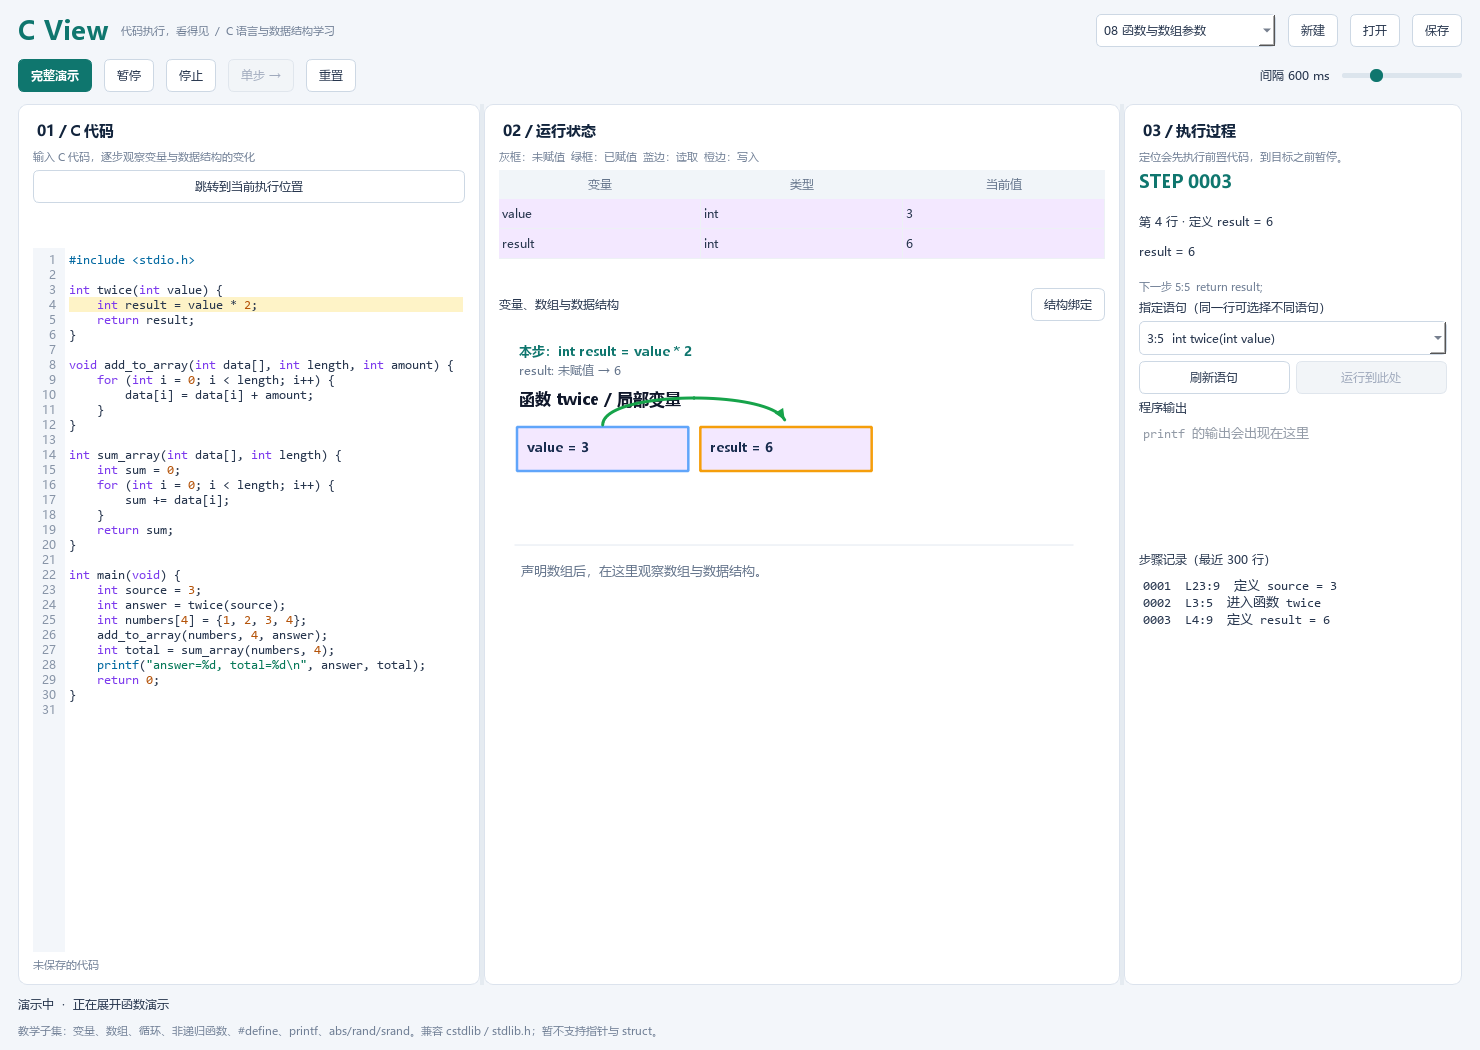
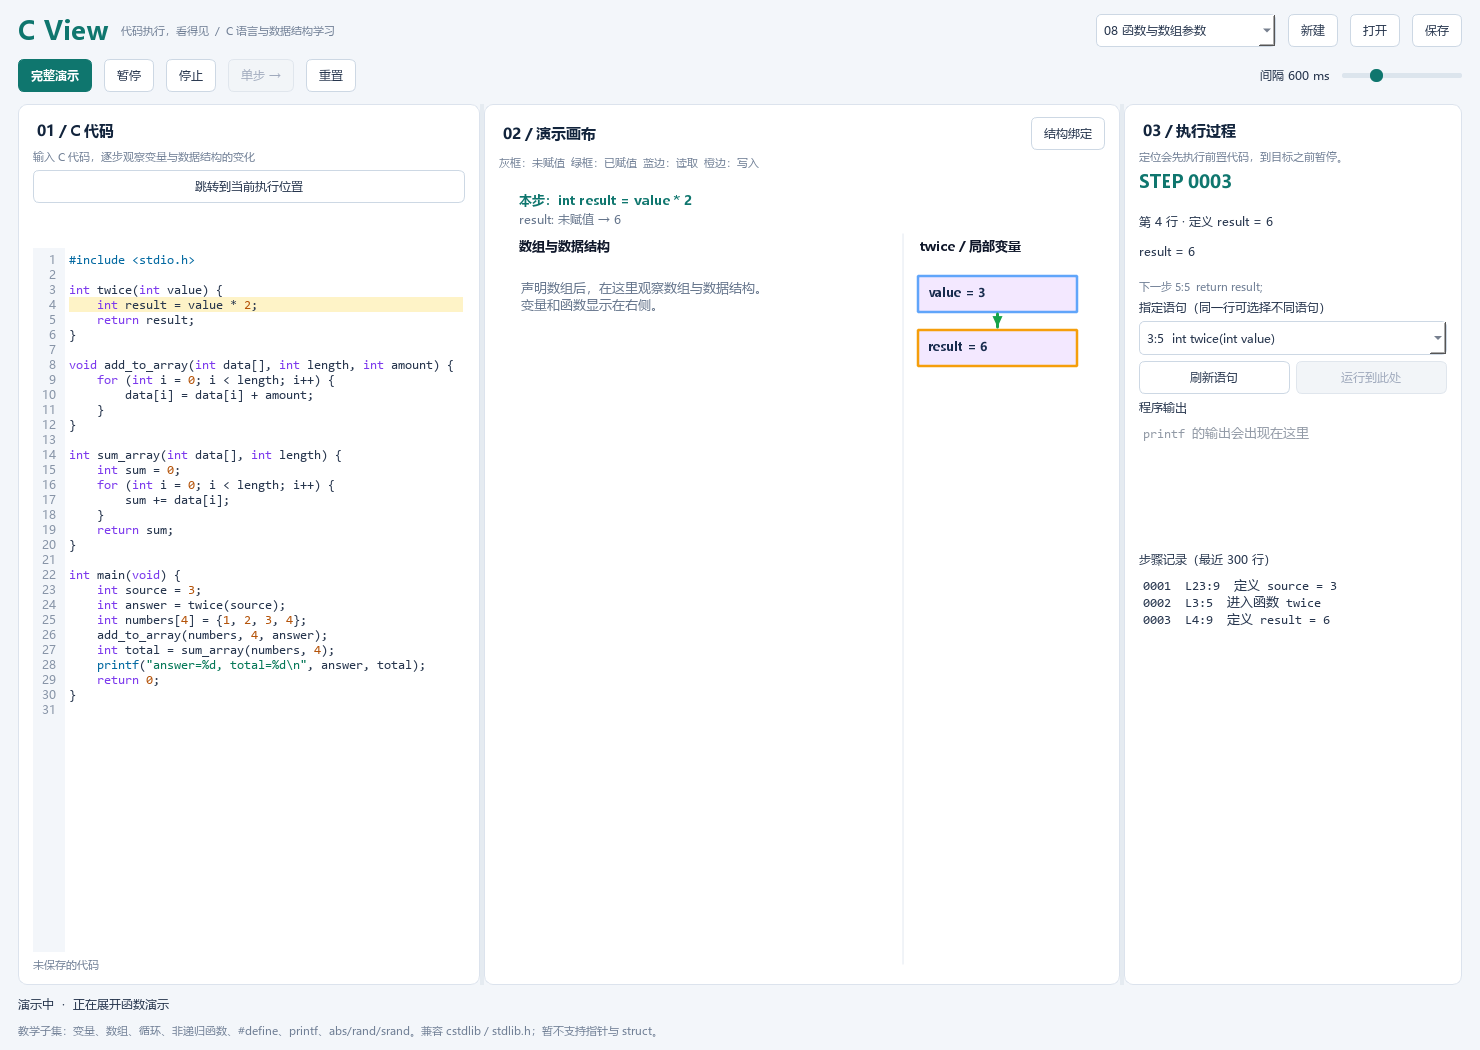
Expand visual canvas and move variables to right sidebar

diff --git a/cvisualizer/views.py b/cvisualizer/views.py
@@ -64,8 +64,8 @@ class MemoryView(QGraphicsView):
                 self.motion.origins[key] += shift
         self.motion.finish()
 
-    def _begin_section(self, name, top, bottom, width):
-        clip = QGraphicsRectItem(0, top, width, max(1, bottom-top))
+    def _begin_section(self, name, top, bottom, width, left=0):
+        clip = QGraphicsRectItem(left, top, width, max(1, bottom-top))
         clip.setPen(QPen(Qt.PenStyle.NoPen))
         clip.setFlag(QGraphicsItem.GraphicsItemFlag.ItemClipsChildrenToShape)
         self.scene().addItem(clip)
@@ -117,7 +117,7 @@ class MemoryView(QGraphicsView):
         item.setPos(x, y)
         return item
 
-    def box(self, name, value, x, y, width, read=False, written=False, purple=False):
+    def box(self, name, value, x, y, width, read=False, written=False, purple=False, compact=False):
         fill = '#e5e7eb' if value is None else '#dcfce7'
         border = '#a1a8b3' if value is None else '#86bda4'
         if purple or self._function_context:
@@ -126,12 +126,12 @@ class MemoryView(QGraphicsView):
             border = '#60a5fa'
         if written:
             border = '#f59e0b'
-        rect = self.scene().addRect(x, y, width, 44, QPen(QColor(border), 2.5 if read or written else 1.3), QBrush(QColor(fill)))
+        rect = self.scene().addRect(x, y, width, 36 if compact else 44, QPen(QColor(border), 2.5 if read or written else 1.3), QBrush(QColor(fill)))
         rect.setParentItem(self._content_parent)
         rect.setData(0, name)
         text = name if value is None else f'{name} = {display(value)}'
         rect.setToolTip(text + ('（未初始化）' if value is None else ''))
-        item = self.label(text, x+6, y+8, 10, '#172b4d', True)
+        item = self.label(text, x+6, y+5 if compact else y+8, 9 if compact else 10, '#172b4d', True)
         item.setToolTip(rect.toolTip())
         item.setPlainText(QFontMetricsF(item.font()).elidedText(text, Qt.TextElideMode.ElideRight, width-14))
         rect.value_label = item
@@ -233,24 +233,19 @@ class MemoryView(QGraphicsView):
         self.scene().clear()
         self._sections = {}
         self._content_parent = None
-        width = max(300, self.viewport().width()-28)
-        height = max(1, self.viewport().height())
+        full_width = max(320, self.viewport().width()-20)
+        height = max(1, self.viewport().height()-8)
+        rail_width = min(184, max(120, int(full_width*.3)))
+        width = full_width-rail_width-28
+        rail_left = width+28
         self.scene().setSceneRect(0, 0, self.viewport().width(), self.viewport().height())
-        columns = max(2, int((width-24)//150))
+        columns = max(1, int((width-28)//150))
         box_width = (width-28)/columns-12
         y = 12
-        if not variables and not self._data[5]:
-            for bar in (self.scalar_scroll, self.array_scroll):
-                bar.setValue(0)
-                bar.hide()
-            self.label('每一步，都看得见', 18, y+12, 18, '#0f766e', True)
-            item = self.label('定义变量或数组后，这里会生成方框。\n灰色：未赋值，仅显示名字\n绿色：已有值，显示「名字 = 值」\n蓝色边框：读取  ·  橙色边框：写入', 18, y+58, 10)
-            item.setTextWidth(width-36)
-            return
         if event:
             title = self.label(f'本步：{event.text}', 16, y, 10, '#0f766e', True)
             title.setToolTip(title.toPlainText())
-            title.setPlainText(QFontMetricsF(title.font()).elidedText(title.toPlainText().replace('\n', ' '), Qt.TextElideMode.ElideRight, width-32))
+            title.setPlainText(QFontMetricsF(title.font()).elidedText(title.toPlainText().replace('\n', ' '), Qt.TextElideMode.ElideRight, full_width-32))
             y = 32
             changes = []
             for name, index in dict.fromkeys(event.writes):
@@ -269,33 +264,36 @@ class MemoryView(QGraphicsView):
             if changes:
                 info = self.label('  ·  '.join(changes[:8]), 16, y, 9, '#64748b')
                 info.setToolTip(info.toPlainText())
-                info.setPlainText(QFontMetricsF(info.font()).elidedText(info.toPlainText(), Qt.TextElideMode.ElideRight, width-32))
-        scalar_bottom = min(220, max(144, int(height*.33)))
-        self.label(f'函数 {self._context} / 局部变量' if self._context else '变量与函数', 16, 58, 12, '#0f172a', True)
-        self._begin_section('scalar', 88, scalar_bottom, width)
+                info.setPlainText(QFontMetricsF(info.font()).elidedText(info.toPlainText(), Qt.TextElideMode.ElideRight, full_width-32))
+        self.label('数组与数据结构', 16, 58, 10, '#0f172a', True)
+        heading = self.label(f'{self._context} / 局部变量' if self._context else '变量与函数', rail_left+6, 58, 10, '#0f172a', True)
+        heading.setToolTip(heading.toPlainText())
+        heading.setPlainText(QFontMetricsF(heading.font()).elidedText(heading.toPlainText(), Qt.TextElideMode.ElideRight, rail_width-12))
+        self._begin_section('scalar', 88, height, rail_width, rail_left)
         y = 100
         scalars = [(name, cell) for name, cell in variables.items() if not isinstance(cell['value'], list)]
         functions = () if self._function_context else self._data[5]
         entries = [('function', name, None) for name in functions] + [('variable', name, cell) for name, cell in scalars]
         if entries:
             for pos, (kind, name, cell) in enumerate(entries):
-                x = 18+(pos % columns)*(box_width+12)
-                row_y = y+(pos//columns)*63
+                x = rail_left+8
+                row_y = y+pos*54
                 if kind == 'function':
-                    self.function_boxes[name] = self.box(name+'()', None, x, row_y, box_width, purple=True)
+                    self.function_boxes[name] = self.box(name+'()', None, x, row_y, rail_width-16, purple=True, compact=True)
                     continue
                 read, written = self.activity(name, None, cell, event)
-                self.boxes[name, None, cell['identity']] = self.box(name, cell['value'], x, row_y, box_width, read, written)
-            y += ((len(entries)+columns-1)//columns)*63+16
+                self.boxes[name, None, cell['identity']] = self.box(name, cell['value'], x, row_y, rail_width-16, read, written, compact=True)
+            y += len(entries)*54
         else:
-            self.label('尚无标量变量', 18, y, 10, '#64748b')
+            self.label('尚无标量变量', rail_left+6, y, 9, '#64748b')
         self._end_section('scalar', y)
-        self.scene().addLine(16, scalar_bottom+6, width-4, scalar_bottom+6, QPen(QColor('#e2e8f0')))
-        self._begin_section('array', scalar_bottom+12, height, width)
-        y = scalar_bottom+20
+        self.scene().addLine(rail_left-7, 58, rail_left-7, height, QPen(QColor('#e2e8f0')))
+        self._begin_section('array', 88, height, width)
+        y = 100
         bound = {b.array: b for b in bindings}
         if not any(isinstance(cell['value'], list) for cell in variables.values()):
-            self.label('声明数组后，在这里观察数组与数据结构。', 18, y, 10, '#64748b')
+            hint = self.label('声明数组后，在这里观察数组与数据结构。\n变量和函数显示在右侧。', 18, y, 10, '#64748b')
+            hint.setTextWidth(max(80, width-36))
         for name, cell in variables.items():
             if not isinstance(cell['value'], list):
                 continue
@@ -315,22 +313,23 @@ class MemoryView(QGraphicsView):
             active = set(model.active)
             visible = list(range(min(64, len(model.values))))
             vertical = model.kind == 'stack'
+            labels_below = not vertical or width < box_width+190
             if vertical:
                 visible.reverse()
             max_bottom = y
             for pos, index in enumerate(visible):
                 x = 24 if vertical else 18+(pos % columns)*(box_width+12)
-                cy = y+pos*(96+marker_space) if vertical else y+(pos//columns)*(112+marker_space)
+                cy = y+pos*((112 if labels_below else 96)+marker_space) if vertical else y+(pos//columns)*(112+marker_space)
                 read, written = self.activity(name, index, cell, event)
                 self.boxes[name, index, cell['identity']] = self.box(f'{name}[{index}]', model.values[index], x, cy, box_width, read, written)
                 if model.kind != 'array':
-                    self.label('有效' if index in active else '空闲位', x+6 if not vertical else x+box_width+14,
-                               cy+45 if not vertical else cy+11, 8, '#64748b')
+                    self.label('有效' if index in active else '空闲位', x+6 if labels_below else x+box_width+14,
+                               cy+45 if labels_below else cy+11, 8, '#64748b')
                 markers = model.markers.get(index, [])
                 if markers:
-                    self.label(' / '.join(markers), x+box_width+75 if vertical else x,
-                               cy+8 if vertical else cy+60, 9, '#0f766e', True)
-                max_bottom = max(max_bottom, cy+(58 if vertical else 82))
+                    self.label(' / '.join(markers), x if labels_below else x+box_width+75,
+                               cy+60 if labels_below else cy+8, 9, '#0f766e', True)
+                max_bottom = max(max_bottom, cy+(82 if labels_below else 58))
             y = max_bottom+10
             if len(model.values) > 64:
                 self.label(f'仅绘制前 64 / {len(model.values)} 个单元；执行器处理完整数组', 18, y, 9, '#64748b')

diff --git a/cvisualizer/window.py b/cvisualizer/window.py
@@ -2,11 +2,11 @@
 from pathlib import Path
 
 from PySide6.QtCore import Qt, QTimer, QAbstractAnimation
-from PySide6.QtGui import QColor, QFont, QAction, QKeySequence, QCursor
+from PySide6.QtGui import QAction, QKeySequence, QCursor
 from PySide6.QtWidgets import (
     QMainWindow, QWidget, QVBoxLayout, QHBoxLayout, QLabel, QPushButton,
-    QComboBox, QSlider, QSplitter, QPlainTextEdit, QTableWidget, QTableWidgetItem,
-    QHeaderView, QFileDialog, QMessageBox, QDialog, QFrame, QAbstractItemView, QMenu,
+    QComboBox, QSlider, QSplitter, QPlainTextEdit,
+    QFileDialog, QMessageBox, QDialog, QFrame, QMenu,
 )
 
 from .bindings import BindingDialog, read_bindings, write_bindings
@@ -31,10 +31,8 @@ QPushButton:disabled { color: #a0aabd; background: #f2f5f8; border-color: #e0e6e
 QPushButton#primary { color: white; background: #0f766e; border-color: #0f766e; font-weight: 700; }
 QPushButton#primary:hover { background: #115e59; }
 QComboBox { background: white; border: 1px solid #cdd8e4; border-radius: 5px; padding: 7px; }
-QPlainTextEdit, QGraphicsView, QTableWidget { background: white; border: none; selection-background-color: #cceae7; }
+QPlainTextEdit, QGraphicsView { background: white; border: none; selection-background-color: #cceae7; }
 QPlainTextEdit { font-family: "Consolas", "Microsoft YaHei UI", monospace; font-size: 13px; }
-QHeaderView::section { background: #f1f5f9; color: #64748b; padding: 5px; border: none; }
-QTableWidget { gridline-color: #edf1f5; }
 QSplitter::handle { background: #e5ebf1; }
 QSlider::groove:horizontal { height: 5px; background: #dce5ed; border-radius: 2px; }
 QSlider::handle:horizontal { background: #0f766e; width: 13px; margin: -4px 0; border-radius: 6px; }
@@ -153,22 +151,15 @@ class MainWindow(QMainWindow):
         left_layout.addWidget(self.filename_label)
         splitter.addWidget(left)
 
-        middle, middle_layout = panel('02 / 运行状态', '灰框：未赋值  绿框：已赋值  蓝边：读取  橙边：写入')
-        self.variables = QTableWidget(0, 3)
-        self.variables.setHorizontalHeaderLabels(['变量', '类型', '当前值'])
-        self.variables.horizontalHeader().setSectionResizeMode(QHeaderView.ResizeMode.Stretch)
-        self.variables.verticalHeader().hide()
-        self.variables.setEditTriggers(QAbstractItemView.EditTrigger.NoEditTriggers)
-        self.variables.setFixedHeight(112)
-        self.variables.setVerticalScrollMode(QAbstractItemView.ScrollMode.ScrollPerPixel)
-        middle_layout.addWidget(self.variables)
+        middle, middle_layout = panel('02 / 演示画布', '灰框：未赋值  绿框：已赋值  蓝边：读取  橙边：写入')
+        heading = middle_layout.takeAt(0).widget()
         binding_row = QHBoxLayout()
-        binding_row.addWidget(QLabel('变量、数组与数据结构'))
+        binding_row.addWidget(heading)
         binding_row.addStretch()
         self.binding_button = QPushButton('结构绑定')
         self.binding_button.clicked.connect(self.edit_bindings)
         binding_row.addWidget(self.binding_button)
-        middle_layout.addLayout(binding_row)
+        middle_layout.insertLayout(0, binding_row)
         self.visuals = MemoryView()
         middle_layout.addWidget(self.visuals, 1)
         splitter.addWidget(middle)
@@ -265,7 +256,6 @@ class MainWindow(QMainWindow):
         self.targets.clear()
         self.log.clear()
         self.output.clear()
-        self.variables.setRowCount(0)
         self.visuals.render({}, self.bindings, functions=self.function_names())
         self.step_label.setText('STEP 0000')
         self.explanation.setText('点击「完整演示」或「单步」开始。')
@@ -433,19 +423,6 @@ class MainWindow(QMainWindow):
         self.status.setText(f'{STATES[state]}  ·  {c.message}')
         event = c.engine.last
         snapshot = c.engine.display_snapshot()
-        rows = [(name, cell) for name, cell in snapshot.items() if not isinstance(cell['value'], list)]
-        self.variables.setRowCount(len(rows))
-        for row, (name, cell) in enumerate(rows):
-            same_cell = event and event.variables.get(name, {}).get('identity') == cell['identity']
-            for col, value in enumerate([name, cell['type'], display(cell['value'])]):
-                item = QTableWidgetItem(value)
-                if event and event.function:
-                    item.setBackground(QColor('#f3e8ff'))
-                elif same_cell and (name, None) in event.writes:
-                    item.setBackground(QColor('#fef3c7'))
-                elif same_cell and (name, None) in event.reads:
-                    item.setBackground(QColor('#dbeafe'))
-                self.variables.setItem(row, col, item)
         self.visuals.render(snapshot, self.bindings, event, pointers=c.engine.index_markers(),
                             index_lanes=c.engine.index_lanes,
                             functions=self.function_names(),

diff --git a/tests/test_layout_stability.py b/tests/test_layout_stability.py
@@ -4,6 +4,66 @@ from cvisualizer.editor import CodeEditor
 from cvisualizer.engine import Engine
 from cvisualizer.views import MemoryView
 from cvisualizer.window import MainWindow
+from PySide6.QtWidgets import QTableWidget
+import pytest
+
+
+def test_middle_panel_uses_canvas_without_runtime_table(app):
+    window = MainWindow()
+    window.show()
+    app.processEvents()
+    assert not window.findChildren(QTableWidget)
+    assert window.visuals.height() > window.editor.height() * .9
+    window.close()
+
+
+@pytest.mark.parametrize('width', [350, 650])
+def test_variables_and_functions_form_compact_right_column(app, width):
+    view = MemoryView()
+    view.resize(width, 600)
+    view.show()
+    app.processEvents()
+    engine = Engine('int f(int x){return x;} int main(){int a[4]={0};int x=1;int y;}')
+    while engine.peek():
+        event = engine.step()
+    view.render(engine.runtime.snapshot(), [], event, functions=('f',), animate=False)
+    scalar = view._sections['scalar'][0].rect()
+    array = view._sections['array'][0].rect()
+    assert scalar.left() > array.right()
+    assert scalar.top() == array.top()
+    assert scalar.bottom() == array.bottom()
+    cards = list(view.function_boxes.values()) + [item for (_, index, _), item in view.boxes.items() if index is None]
+    assert len({item.mapRectToScene(item.rect()).left() for item in cards}) == 1
+    assert all(scalar.contains(item.sceneBoundingRect()) for item in cards)
+    assert max(item.rect().height() for item in cards) <= 38
+    view.close()
+
+
+def test_return_from_function_restores_both_side_by_side_scroll_positions(app):
+    view = MemoryView()
+    view.resize(600, 600)
+    view.show()
+    app.processEvents()
+    engine = Engine('int f(int x){return x+1;} int main(){int a[40]={0};' +
+                    ''.join(f'int v{i}={i};' for i in range(24)) + 'v23=f(v23);}')
+    for _ in range(25):
+        event = engine.step()
+    view.render(engine.runtime.snapshot(), [], event, functions=('f',), animate=False)
+    view.scalar_scroll.setValue(250)
+    view.array_scroll.setValue(200)
+    assert view.scalar_scroll.value() == 250
+    assert view.array_scroll.value() == 200
+    event = engine.step(expand_calls=True)
+    view.render(engine.display_snapshot(), [], event, functions=('f',), animate=False)
+    assert view.scalar_scroll.value() == 0
+    assert view.array_scroll.value() == 0
+    while engine.has_detail:
+        event = engine.step(expand_calls=True)
+        view.render(engine.display_snapshot(), [], event, functions=('f',), animate=False)
+    assert view.scalar_scroll.value() == 250
+    assert view.array_scroll.value() == 200
+    assert engine.runtime.snapshot()['v23']['value'] == 24
+    view.close()
 
 
 def test_array_position_stays_fixed_as_scalars_enter_and_leave_scope(app):
@@ -100,7 +160,10 @@ def test_scrolled_scalar_transfer_uses_visible_positions(app):
     view.render(engine.runtime.snapshot(), [], event)
     assert len(view.motion.arrows) == 1
     source = next(item for (name, _, _), item in view.boxes.items() if name == 'v19')
-    assert abs(view.motion.arrows[0].route.pointAtPercent(0).y() - source.mapRectToScene(source.rect()).bottom() - 2) < 1
+    rect = source.mapRectToScene(source.rect())
+    origin = view.motion.arrows[0].route.pointAtPercent(0)
+    assert abs(origin.x() - (rect.left()-2)) < 1
+    assert abs(origin.y() - rect.center().y()) < 1
     view.close()
 
 

diff --git a/cvisualizer/animations.py b/cvisualizer/animations.py
@@ -24,11 +24,17 @@ class TransferArrow(QGraphicsPathItem):
             start, end = source.topLeft() + QPointF(source.width()/2, -2), target.topLeft() + QPointF(target.width()/2, -2)
             lift = min(75, max(36, abs(end.x()-start.x())*.18))
             c1, c2 = start + QPointF(0, -lift), end + QPointF(0, -lift)
+        elif source.right() < target.left() or target.right() < source.left():
+            direction = 1 if target.center().x() > source.center().x() else -1
+            start = QPointF(source.right()+2 if direction > 0 else source.left()-2, source.center().y())
+            end = QPointF(target.left()-2 if direction > 0 else target.right()+2, target.center().y())
+            bend = abs(end.x()-start.x())*.45
+            c1, c2 = start + QPointF(direction*bend, 0), end - QPointF(direction*bend, 0)
         else:
             direction = 1 if target.center().y() > source.center().y() else -1
             start = QPointF(source.center().x(), source.bottom()+2 if direction > 0 else source.top()-2)
             end = QPointF(target.center().x(), target.top()-2 if direction > 0 else target.bottom()+2)
-            bend = max(36, abs(end.y()-start.y())*.45)
+            bend = abs(end.y()-start.y())*.45
             c1, c2 = start + QPointF(0, direction*bend), end - QPointF(0, direction*bend)
         self.route = QPainterPath(start)
         self.route.cubicTo(c1, c2, end)

diff --git a/README.md b/README.md
@@ -95,11 +95,11 @@ python3 -m venv .venv
 
 演示时，代码高亮会随执行更新，但不会自动滚动或移动你的光标。点击代码区上方的“跳转到当前执行位置”，可随时查看当前高亮语句，不改变执行进度。
 
-变量区和下方数组、数据结构区独立滚动，变量增减不会推移下方画面。内容超出显示范围时，可以在对应区域使用鼠标滚轮或拖动滚动条查看。
+中间面板为演示画布：左侧显示数组和数据结构，右侧以较小方框纵向排列变量与函数。两侧独立滚动，变量增减不会推移数组画面。内容超出显示范围时，可以在对应区域使用鼠标滚轮或拖动滚动条查看。
 
 ### 函数演示
 
-已定义的函数以紫色函数名框显示在变量区。
+已定义的函数以紫色函数名框显示在画布右侧的变量与函数栏。
 
 - **完整演示或直接单步执行调用：** 显示紫色输入框、函数框和传递箭头；受调用影响的变量或数组单元短暂变紫，显示结果后恢复原色。
 - **展开函数：** 单步到调用前，点击代码区上方的“展开函数演示”；如果继续点击“单步”，则使用快速调用动画。

diff --git a/docs/superpowers/plans/2026-10-17-right-variable-rail.md b/docs/superpowers/plans/2026-10-17-right-variable-rail.md
@@ -1,0 +1,11 @@
+# 中间画布与右侧变量栏
+
+目标：移除重复的运行状态表格，让演示画布占据中间面板剩余全部高度；变量和函数在画布右侧缩小并单列排列。
+
+采用现有 PySide6 场景的两个裁剪区域，改为左右布局。右栏宽度只随窗口宽度变化，不随变量数量变化。左侧数组和结构、右侧标量和函数各有独立滚动条；保留灰/绿/紫填充、读写边框和箭头颜色。函数展开及返回时保留各视图滚动位置。
+
+1. 在 `tests/test_layout_stability.py` 增加右侧单列、无表格及跨区箭头定位的检查，运行并确认旧布局不满足要求。
+2. `window.py` 移除表格创建、清理和刷新；将结构绑定按钮移入面板标题行。
+3. `views.py` 为裁剪区域增加横向起点；右侧使用较小的单列卡片，左侧按照可用宽度排布数组，支持窄窗口和滚动。
+4. 验证独立滚动、函数视图恢复及既有颜色/动画测试，检查真实 Qt 截图。
+5. 更新 README 布局说明和截图，完整测试后提交并同步 GitHub。
